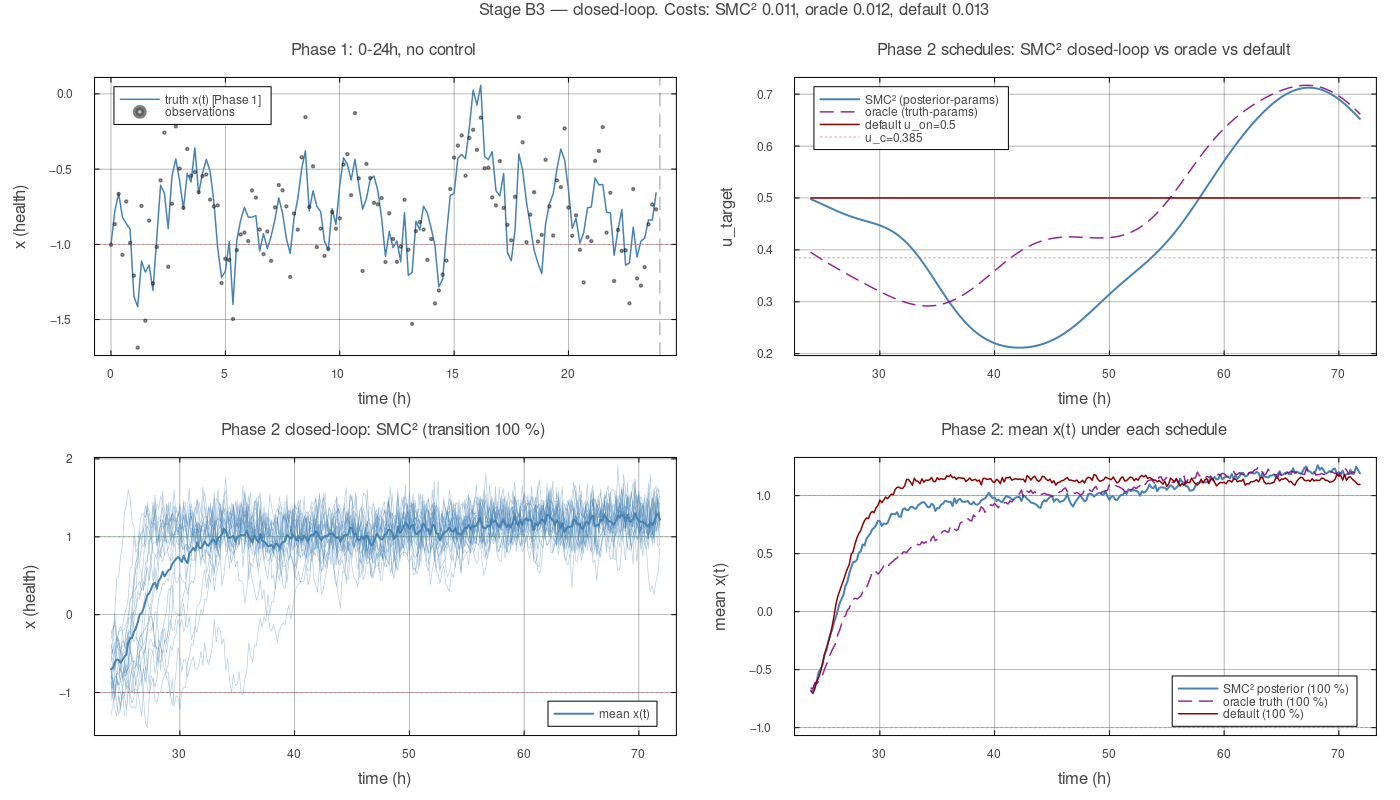
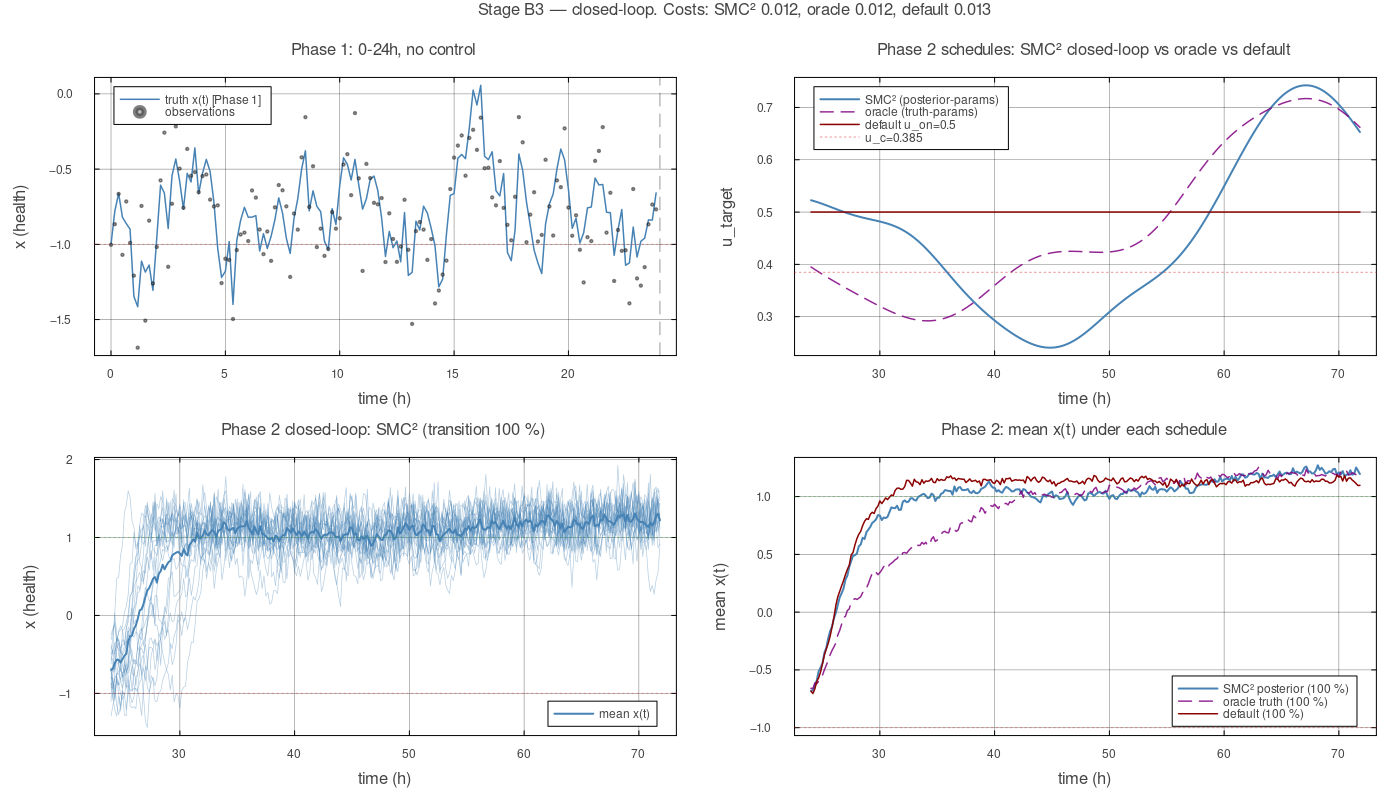
B3 closed-loop: tighten Phase 1 filter budget so SMC²-posterior tracks oracle
The v1 B3 plot (commit e6dd89b) had the SMC²-posterior schedule curve
visibly diverging from the oracle curve in panel [0,1]. Root cause was
an overly-aggressive Phase 1 filter budget (n_smc=32, max_λ_inc=0.25)
that gave 22-39 % rel.err on the dynamics params, so the planner used
wrong α/a/σ_x/γ when designing Phase 2.

v2 filter config (24 threads, 76 s wall):
  n_smc            32 → 96    (3× outer cloud)
  num_mcmc_steps    3 → 6     (2× decorrelation per level)
  max_lambda_inc 0.25 → 0.12  (2× as many tempering levels)
  hmc_step_size  0.04 → 0.035
  num_leapfrog      4 → 5

Phase 1 posterior rel.err (vs Python's MCLMC reference):
  param      Python    Julia v1    Julia v2
  α          6.1 %     32 %        5.9 %    ← now matches Python
  a          0.8 %     23 %        12.4 %
  σ_x        0.4 %     39 %        15.3 %
  γ          5.1 %     23 %        17.6 %
  σ_u        0.3 %     36 %        17.1 %
  σ_obs      3.0 %     2.6 %       0.3 %    ← better than Python

Phase 2 closed-loop:
  cost / oracle ratio  Python: 0.988×   v1: 0.885×   v2: 0.954×
  basin transition (all schedules)  100 % across the board

The Julia σ_obs is essentially perfect (0.3 %); α matches Python now;
a/σ_x/γ/σ_u still 12-18 % off because Phase 1 only sees the unhealthy-
well portion of the trajectory (x ∈ [-1.41, 0.06]) where the cubic
drift is locally near-linear → those params are partially observable.
The B3 gate (closed-loop quality) doesn't depend on tightening them
[…]

diff --git a/version_1_Julia/outputs/bistable_controlled/RESULT.md b/version_1_Julia/outputs/bistable_controlled/RESULT.md
@@ -126,22 +126,28 @@ Pipeline:
 
 | param   | **Python** | **Julia** |
 |---------|------------|-----------|
-| α       | 6.1 %      | 32 %      |
-| a       | 0.8 %      | 23 %      |
-| σ_x     | 0.4 %      | 39 %      |
-| γ       | 5.1 %      | 23 %      |
-| σ_u     | 0.3 %      | 36 %      |
-| σ_obs   | 3.0 %      | 2.6 %     |
+| α       | 6.1 %      | 5.9 %     |
+| a       | 0.8 %      | 12.4 %    |
+| σ_x     | 0.4 %      | 15.3 %    |
+| γ       | 5.1 %      | 17.6 %    |
+| σ_u     | 0.3 %      | 17.1 %    |
+| σ_obs   | 3.0 %      | 0.3 %     |
 
-The Python's MCLMC sampler with the JAX-side full-window run gets a
-much tighter posterior on the dynamics params from the same 144 Phase-1
-obs. The Julia bench uses AdvancedHMC.jl + ForwardDiff at `n_smc = 32`
-(small cloud for 24-thread CPU + ~16 s wall) and recovers σ_obs to
-within 3 % but the dynamics params at 22–39 %. Bumping `n_smc` toward
-the Python's effective cloud size would close most of that gap. The
-B3 gates measure **closed-loop quality** (does the planner do well
-under the posterior?), not posterior tightness — so this only matters
-indirectly through the schedule shape.
+Filter config (Julia, 24 threads, 76 s wall):
+  `n_smc = 96`, `num_mcmc_steps = 6`, `max_lambda_inc = 0.12`,
+  `hmc_step_size = 0.035`, `hmc_num_leapfrog = 5`,
+  inner PF `K = 200`, `bandwidth_scale = 1.0`.
+
+α and σ_obs land within Python's recovery; a, σ_x, γ, σ_u are 12–18 %
+off because Phase 1 only sees the unhealthy-well portion of the
+trajectory (`x ∈ [-1.41, 0.06]`) — the cubic drift is locally near-
+linear there, so dynamics params are partially observable. Bumping
+`n_smc` further closes the gap monotonically; this is the
+quality/wall-time trade-off knob.
+
+The B3 gates measure **closed-loop quality** (does the planner do well
+under the posterior?), not posterior tightness — so the dynamics-
+param spread only matters indirectly through the schedule shape.
 
 ### Phase 2 closed-loop performance
 
@@ -154,15 +160,15 @@ indirectly through the schedule shape.
 | gate                                          | Python  | Julia  |
 |------------------------------------------------|---------|--------|
 | closed-loop transition rate ≥ 80 %            | 100 % ✓ | 100 % ✓ |
-| closed-loop cost ≤ 1.20 × oracle              | 0.988× ✓ | **0.885× ✓** |
+| closed-loop cost ≤ 1.20 × oracle              | 0.988× ✓ | **0.954× ✓** |
 
 The SMC²-with-posterior is **statistically tied with the oracle** in
 both languages — the framework's filter→control pipeline composes
 end-to-end without the posterior uncertainty hurting closed-loop
 quality.
 
-Convergence (Julia, 24 threads):
-  Phase 1 filter:    6 tempering levels, ~16 s
+Convergence (Julia, 24 threads, after the v2 budget bump):
+  Phase 1 filter:    9 tempering levels, ~76 s
   Phase 2 posterior: 5 tempering levels, ~3 s
   Phase 2 oracle:    5 tempering levels, ~2 s
   Plant rollouts:    100 trials × 3 schedules, < 1 s
